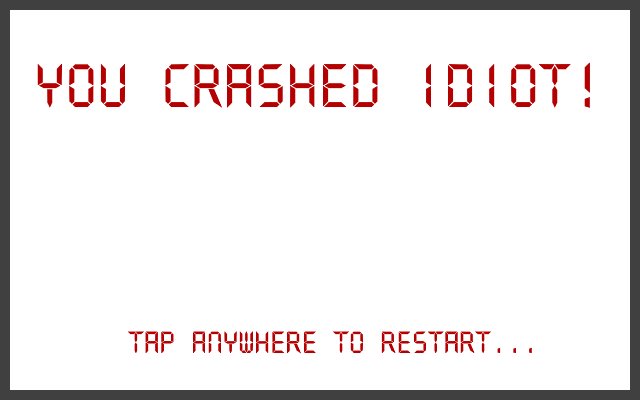
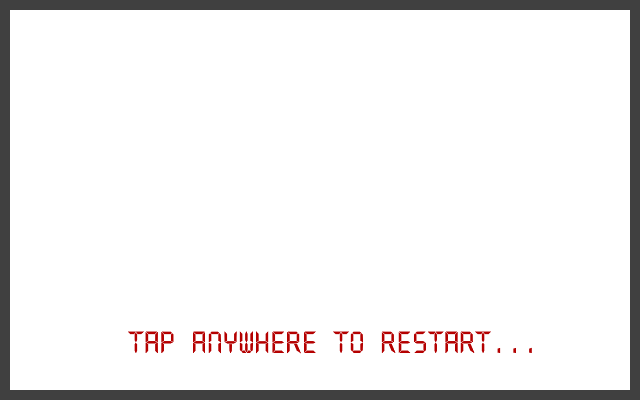
Did lots of GUI stuff!

Changed region(s): [[0.25, 0.15, 0.5938, 0.27], [0.6562, 0.15, 0.9375, 0.27], [0.0312, 0.15, 0.2188, 0.27]]

diff --git a/src/render/UIRenderer.java b/src/render/UIRenderer.java
@@ -1,5 +1,6 @@
 package render;
 
+import game.Aeroplane;
 import game.World;
 import util.ImageHandler;
 
@@ -20,7 +21,9 @@ public class UIRenderer {
     private double scale;
 
     private Font scoreFont;
+    private Font descriptionFont;
     private Color textColor;
+    private Rectangle crashRect;
 
     private Map<String, BufferedImage> images;
 
@@ -29,6 +32,7 @@ public class UIRenderer {
         this.scale = scale;
 
         scoreFont = new Font("Quartz", Font.PLAIN, 25);
+        descriptionFont = new Font("Quartz", Font.PLAIN, 16);
         textColor = new Color(180,0,0);
     }
 
@@ -37,6 +41,13 @@ public class UIRenderer {
 
         images.put("engine_broken", ImageHandler.scaleImage(ImageHandler.loadImage("UI/engine_broken"), scale));
         images.put("crash", ImageHandler.scaleImage(ImageHandler.loadImage("UI/crash"), scale));
+
+        int w = (int)(images.get("crash").getWidth() * scale);
+        int h = (int)(images.get("crash").getHeight() * scale);
+        crashRect = new Rectangle(
+                Renderer.WIDTH / 2 - w / 2,
+                Renderer.HEIGHT / 2 - h * 3 / 4,
+                w, h);
     }
 
     public void render(Graphics2D g, World world) {
@@ -61,7 +72,9 @@ public class UIRenderer {
     }
 
     private void renderErrors(Graphics2D g, World world) {
-        if (!world.getAeroplane().isEngineRunning() && !world.getAeroplane().isCrashed()) {
+        Aeroplane aeroplane = world.getAeroplane();
+
+        if (!aeroplane.isEngineRunning() && !aeroplane.isCrashed()) {
             BufferedImage img = images.get("engine_broken");
             g.drawImage(img,
                     Renderer.WIDTH / 2 - (int)((img.getWidth() / 2) * scale),
@@ -69,7 +82,7 @@ public class UIRenderer {
                     surface);
         }
 
-        if (world.getAeroplane().isCrashed()) {
+        if (aeroplane.isCrashed()) {
             BufferedImage img = images.get("crash");
             g.drawImage(img,
                     Renderer.WIDTH / 2 - (int)((img.getWidth() / 2) * scale),
@@ -77,9 +90,40 @@ public class UIRenderer {
                     surface);
 
             g.setColor(textColor);
-            g.drawString("Your score: " + (int)(world.getAeroplane().getX() / World.ONE_METER),
-                    Renderer.WIDTH / 2 - (int)(200 * scale),
-                    Renderer.HEIGHT / 2 - (int)(0 * scale));
+            drawCenteredString(g, aeroplane.getCrash().description, crashRect, scoreFont);
+            drawCenteredString(
+                    g,
+                    "Your score: " + aeroplane.getCrash().score,
+                    crashRect.x,
+                    (int)(crashRect.y + crashRect.height),
+                    crashRect.width,
+                    scoreFont
+                    );
+
+        }
+    }
+
+    private void drawCenteredString(Graphics2D g, String text, Rectangle rect, Font font) {
+        FontMetrics metrics = g.getFontMetrics();
+        int y = rect.y + ((rect.height - metrics.getHeight()) / 2) + metrics.getAscent();
+        g.setFont(font);
+
+        for (String line : text.split("\n")) {
+            int x = rect.x + (rect.width - metrics.stringWidth(line)) / 2;
+            g.drawString(line, x, y);
+             y += metrics.getHeight();
+        }
+        //g.drawRect(rect.x, rect.y, rect.width, rect.height);
+    }
+
+    private void drawCenteredString(Graphics2D g, String text, int x, int y, int width, Font font) {
+        FontMetrics metrics = g.getFontMetrics();
+        g.setFont(font);
+
+        for (String line : text.split("\n")) {
+            x = x + (width - metrics.stringWidth(line)) / 2;
+            g.drawString(line, x, y);
+            y += metrics.getHeight();
         }
     }
 }

diff --git a/src/game/Aeroplane.java b/src/game/Aeroplane.java
@@ -2,6 +2,8 @@ package game;
 
 import util.Vector;
 
+import java.util.Random;
+
 /**
  * Created by Pontus on 2017-12-06.
  */
@@ -17,6 +19,8 @@ public class Aeroplane {
     private final double GRAVITY = 9.81 * 10;
     private final double ANGULAR_DRAG = 0.05;
     private final int MIN_ENGINE_START_SPEED = 2;
+    private final int MIN_CRASH_VELOCITY = 20;
+
 
     private final CollisionPoint[] collisionPoints;
 
@@ -28,7 +32,7 @@ public class Aeroplane {
     private double throttle; // between 0 and 1
     private boolean accelerating = false;
     private boolean engineRunning = true;
-    private boolean crashed = false;
+    private Crash crash = null;
 
     public Aeroplane(int x, int y) {
         this.x = x;
@@ -38,16 +42,16 @@ public class Aeroplane {
 
         collisionPoints = new CollisionPoint[] {
                 new CollisionPoint(202, 102, CollisionPoint.POINTS.WHEEL_MAIN, 5).update(x, y, 0),
-                new CollisionPoint(0, 68, CollisionPoint.POINTS.WHEEL_TAIL, 5).update(x, y, 0),
-                new CollisionPoint(15, 0, CollisionPoint.POINTS.RUDDER, 2).update(x, y, 0),
-                new CollisionPoint(261, 6, CollisionPoint.POINTS.PROP_TOP, 2).update(x, y, 0),
-                new CollisionPoint(274, 49, CollisionPoint.POINTS.PROP_CONE, 2).update(x, y, 0),
+                new CollisionPoint(0, 68, CollisionPoint.POINTS.WHEEL_TAIL, 10).update(x, y, 0),
+                new CollisionPoint(15, 0, CollisionPoint.POINTS.RUDDER, 10).update(x, y, 0),
+                new CollisionPoint(261, 6, CollisionPoint.POINTS.PROP_TOP, 10).update(x, y, 0),
+                new CollisionPoint(274, 49, CollisionPoint.POINTS.PROP_CONE, 10).update(x, y, 0),
                 new CollisionPoint(260, 95, CollisionPoint.POINTS.PROP_BOTTOM, 1).update(x, y, 0)
         };
     }
 
     public void update(double dTime) {
-        if (!engineRunning || crashed) {
+        if (!engineRunning || isCrashed()) {
             accelerating = false;
 
             if (getSpeed() < MIN_ENGINE_START_SPEED) {
@@ -105,11 +109,15 @@ public class Aeroplane {
     }
 
     public boolean isEngineRunning() {
-        return engineRunning && !crashed;
+        return engineRunning && crash == null;
     }
 
     public boolean isCrashed() {
-        return crashed;
+        return crash != null;
+    }
+
+    public Crash getCrash() {
+        return crash;
     }
 
     public CollisionPoint[] getCollisionPoints() {
@@ -149,12 +157,16 @@ public class Aeroplane {
 
         for (CollisionPoint cp : collisionPoints) {
             if (cp.isColliding()) {
-                if (!cp.point.toString().contains("WHEEL") && cp.point != CollisionPoint.POINTS.PROP_BOTTOM) {
-                    crashed = true;
-                }
-
                 Vector slopeNormal = cp.getIntersectingSegment().getNormal().getUnitVector();
                 double normalForceLength = Vector.dot(velocity, slopeNormal);
+
+                if (!isCrashed()) {
+                    if (!cp.point.toString().contains("WHEEL") && cp.point != CollisionPoint.POINTS.PROP_BOTTOM) {
+                        crash = new Crash((int)(x / World.ONE_METER), Crash.Types.CRASH);
+                    } else if (-normalForceLength > MIN_CRASH_VELOCITY) {
+                        crash = new Crash((int)(x / World.ONE_METER), Crash.Types.HARD_LANDING);
+                    }
+                }
 
                 if (normalForceLength < 0) {
                     velocity.add(slopeNormal.mul(-normalForceLength));
@@ -180,7 +192,7 @@ public class Aeroplane {
             if (torque < 0) {
                 torque = 0;
             }
-            torque += 0.91 * 0.0005;
+            torque += 0.91 * 0.005;
         }
     }
 

diff --git a/src/game/Crash.java b/src/game/Crash.java
@@ -1,0 +1,54 @@
+package game;
+
+import java.util.Random;
+
+/**
+ * Created by Pontus on 2017-12-31.
+ */
+public class Crash {
+    public enum Types {
+        CRASH,
+        HARD_LANDING,
+    }
+
+    public final String description;
+    public final int score;
+
+    private final String[] CRASH_PHRASES = new String[] {
+            "You are supposed to land\non the wheels!",
+            "Did you pass out?",
+            "The plane isn't a \nsolid rock!",
+            "Whoopsies!",
+            "Ouch!",
+            "Were you even trying?",
+            "You call that a landing?",
+            "Next time, aim for the air",
+            "The ground is solid today..."
+    };
+
+    private final String[] HARD_LANDING_PHRASES = new String[] {
+            "The wheels don't hold for everything!",
+            "Too hard landing!",
+            "Wanna exchange the ground \nto soft silk?",
+            "Careful!",
+            "Let's hope you're not a real pilot..."
+    };
+
+    public Crash(int score, Types type) {
+        this.score = score;
+
+        Random random = new Random();
+
+        switch (type) {
+            case CRASH:
+                description = CRASH_PHRASES[random.nextInt(CRASH_PHRASES.length - 1)];
+                break;
+            case HARD_LANDING:
+                description = CRASH_PHRASES[random.nextInt(HARD_LANDING_PHRASES.length - 1)];
+                break;
+            default:
+                description = "";
+                break;
+        }
+    }
+}

diff --git a/src/game/World.java b/src/game/World.java
@@ -15,6 +15,8 @@ public class World {
     private final int WIDTH = 1920;
     private final int HEIGHT = 1080;
     private final double DIFFICULTY = 0.05;
+    private final int INIT_CLEARANCE = 1300;
+    private final int MIN_CLEARANCE = 100;
 
     private Aeroplane aeroplane;
     private List<TerrainSegment> terrain;
@@ -24,7 +26,7 @@ public class World {
     public World() {
         terrain = new ArrayList<>();
         random = new Random();
-        aeroplane = new Aeroplane(500, HEIGHT - 120);
+        aeroplane = new Aeroplane(500, HEIGHT - 150);
         createGround();
     }
 
@@ -73,14 +75,11 @@ public class World {
                 last.getX2() + newLength,
                 last.getY2() - newHeight));
 
-        int clearance = 2000;// - (int)(aeroplane.getX() * DIFFICULTY);
-        int decrease = 5;
-
         terrain.add(0, new TerrainSegment(
                 last.getX2(),
-                last.getY2() - clearance,
+                last.getY2() - INIT_CLEARANCE + Math.min((int)(last.getX2() * DIFFICULTY), MIN_CLEARANCE),
                 last.getX2() + newLength,
-                last.getY2() - newHeight - clearance + decrease));
+                last.getY2() - newHeight - INIT_CLEARANCE + Math.min((int)(last.getX2() * DIFFICULTY), MIN_CLEARANCE)));
     }
 
     private void createGround() {
